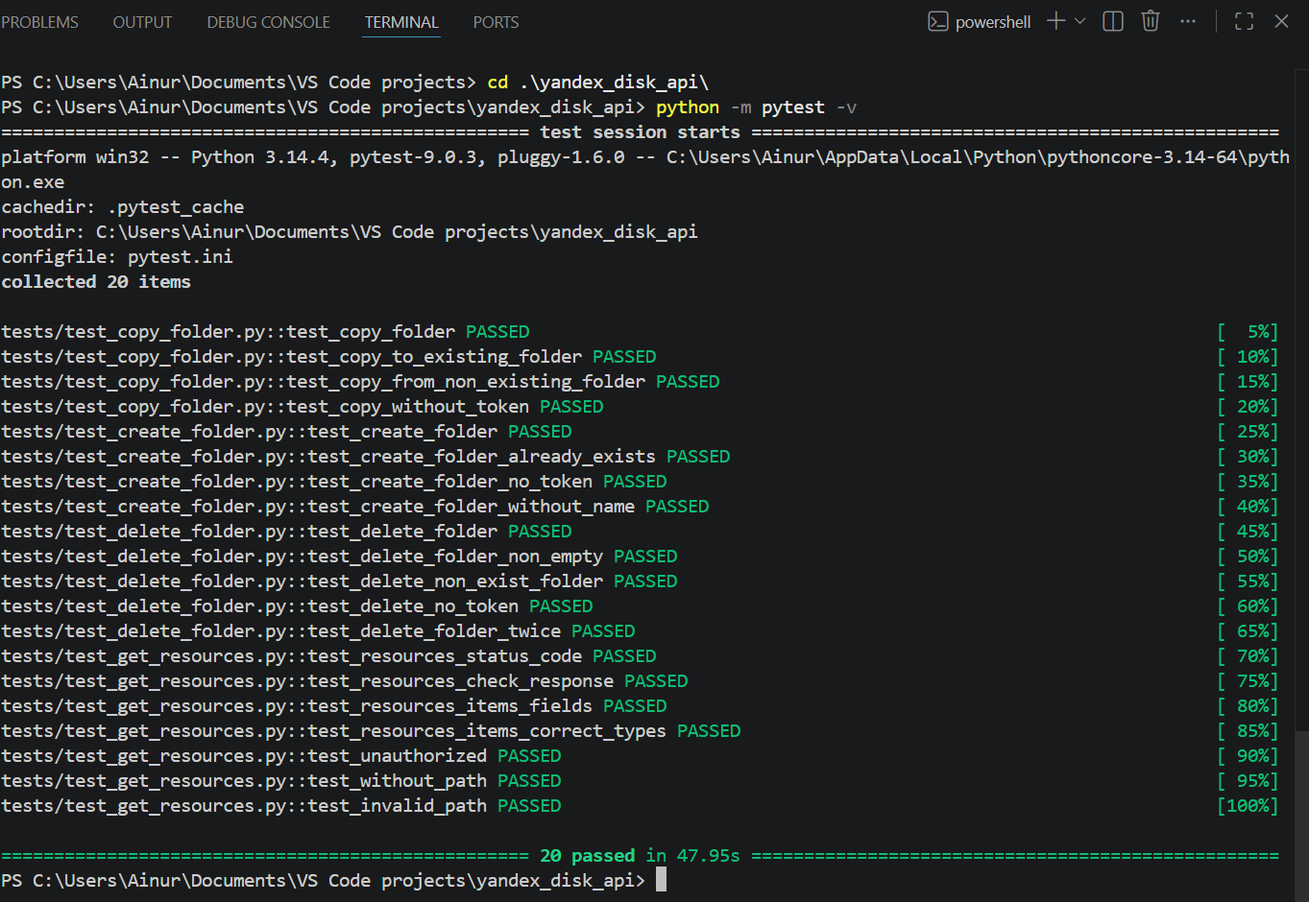
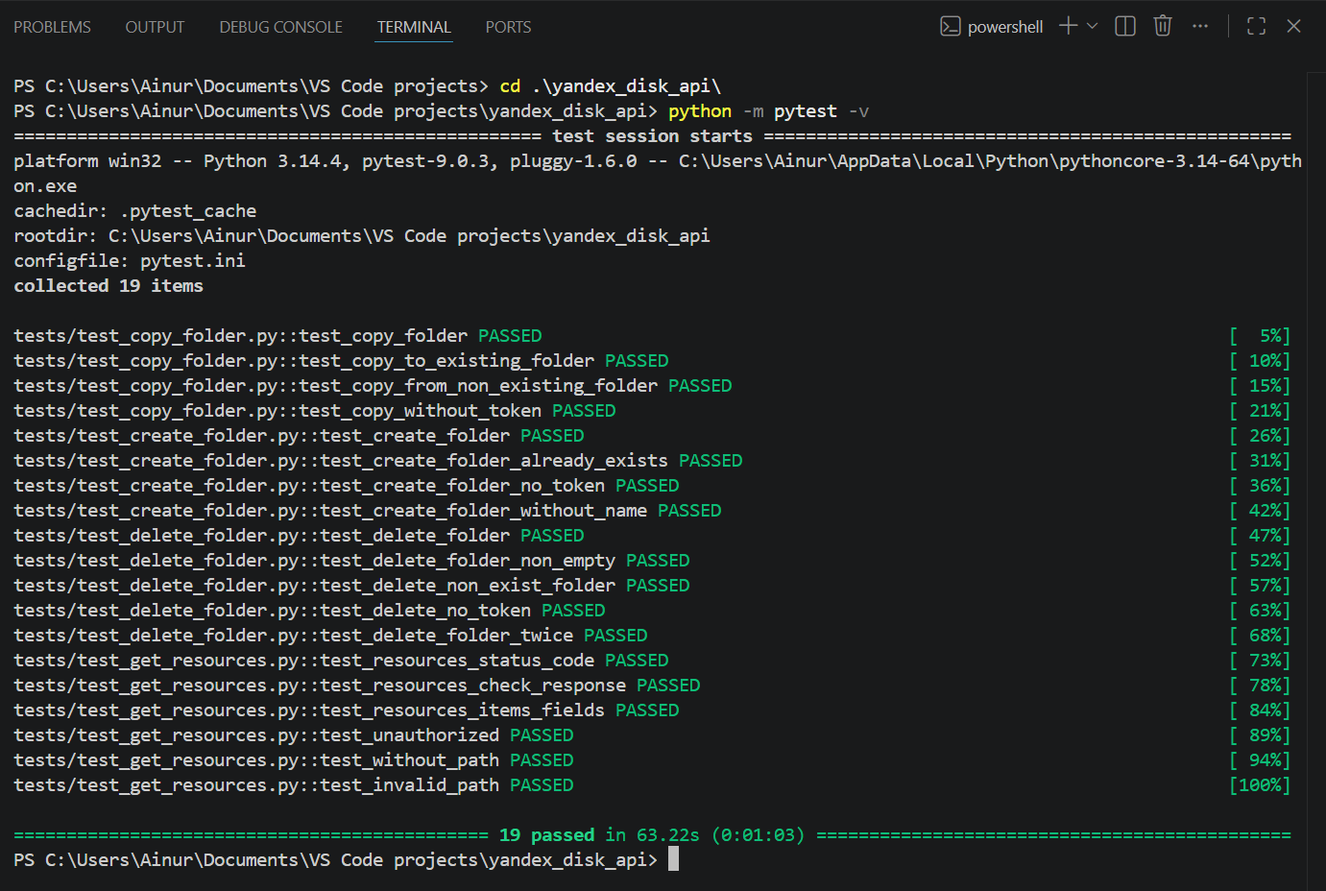
v3.2

diff --git a/tests/test_delete_folder.py b/tests/test_delete_folder.py
@@ -1,66 +1,39 @@
-from config.base import get_name
-from client.yandex_disk_api_client import create_folder, get_resources, delete
-from utils.assertions import assert_create_folder_response, assert_error_response
+from client.yandex_disk_api_client import get_resources, delete
+from utils.assertions import assert_error_response
+from utils.helpers import create_and_check_folder, delete_and_check, get_name
 
 def test_delete_folder(headers): #позитивный тест проверки удаление папки
-    folder_name = get_name("folder") 
-    response = create_folder(headers, folder_name) #создаем тестовую папку
-    assert response.status_code == 201
-    assert_create_folder_response(response.json()) #проверка JSON ответа 
-
-    get_response = get_resources(headers, f"/{folder_name}") #через get проверим что папка точно создалась
-    assert get_response.status_code == 200
-    
-    del_response = delete(headers, f"/{folder_name}") #удалим тестовую папку
-    assert del_response.status_code in [200, 202, 204]
-    
-    get_response = get_resources(headers, f"/{folder_name}") #через get проверим что папка точно удалилась
-    assert get_response.status_code == 404
-    assert_error_response(get_response.json()) #проверка ответа об ошибке    
+    folder_name = get_name("folder") #даем уникальное имя
+    create_and_check_folder(headers, folder_name) #создаем папку (с проверками)
+    delete_and_check(headers, folder_name) #удалим тестовую папку (с проверками)
 
 def test_delete_folder_non_empty(headers): #позитивный тест на удаление не пустой папки
-    folder_name = get_name("folder")
-    second_folder = get_name("second_folder")
-    first_response = create_folder(headers, folder_name) #создаем первую тестовую папку
-    assert first_response.status_code == 201
-    assert_create_folder_response(first_response.json()) #проверка JSON ответа 
-
-    second_response = create_folder(headers, f"{folder_name}/{second_folder}") #создаем вторую тестовую папку внутри первой
-    assert second_response.status_code == 201
-    assert_create_folder_response(second_response.json()) #проверка JSON ответа 
-
-    del_response = delete(headers, f"/{folder_name}") #удалим первую папку
-    assert del_response.status_code in [200, 202, 204]
-    import time
-    time.sleep(1) #иногда тест падает потому что не успевает удаляться папка поэтому поставил на повтор
-    get_response = get_resources(headers, f"/{folder_name}") #через get проверим что папка точно удалилась
-    assert get_response.status_code == 404
-    assert_error_response(get_response.json()) #проверка ответа об ошибке    
+    folder_name = get_name("folder") #даем уникальное имя
+    second_folder = get_name("second_folder") #даем уникальное имя
+    create_and_check_folder(headers, folder_name) #создаем папку (с проверками)
+    create_and_check_folder(headers, f"{folder_name}/{second_folder}") #создаем папку (с проверками)
+    delete_and_check(headers, folder_name) #удалим тестовую папку (с проверками)   
 
 def test_delete_non_exist_folder(headers): #негативный тест проверки удаления несуществ папки
-    folder_name = get_name()
-
-    del_response = delete(headers, f"/{folder_name}")
+    folder_name = get_name() #даем уникальное имя
+    check = get_resources(headers, folder_name) #проверим что нету такой папки
+    assert check.status_code == 404 
+    assert_error_response(check.json()) #проверка ответа об ошибке
+    del_response = delete(headers, folder_name) #удаляем несуществующую папку
     assert del_response.status_code == 404
     assert_error_response(del_response.json()) #проверка ответа об ошибке
 
 def test_delete_no_token(): #негативный тест на удаление папки без токена
-    folder_name = get_name()
-    del_response = delete(None, f"/{folder_name}") #удаляем папку без токена
+    folder_name = get_name() #даем уникальное имя
+    del_response = delete(None, folder_name) #удаляем папку без токена
     assert del_response.status_code == 401
     assert_error_response(del_response.json()) #проверка ответа об ошибке
 
 def test_delete_folder_twice(headers): #негативный тест на повторное удаление папки
-    folder_name = get_name("folder") 
-    response = create_folder(headers, folder_name) #создаем тестовую папку
-    assert response.status_code == 201
-    assert_create_folder_response(response.json()) #проверка JSON ответа 
-
-    get_response = get_resources(headers, f"/{folder_name}") #через get проверим что папка точно создалась
-    assert get_response.status_code == 200
-
-    first_del_response = delete(headers, f"/{folder_name}") #удалим тестовую папку
-    assert first_del_response.status_code in [200, 202, 204]
-
-    second_del_response = delete(headers, f"/{folder_name}") #повторно удалим тестовую папку
-    assert second_del_response.status_code == 404
+    folder_name = get_name("folder") #даем уникальное имя
+    create_and_check_folder(headers, folder_name) #создаем папку (с проверками)
+    delete_and_check(headers, folder_name) #удалим тестовую папку (с проверками)  
+    second_del_response = delete(headers, folder_name) #повторно удалим тестовую папку
+    assert second_del_response.status_code in [404, 202]
+    if second_del_response.status_code == 404:
+        assert_error_response(second_del_response.json()) #проверка ответа об ошибке

diff --git a/tests/test_copy_folder.py b/tests/test_copy_folder.py
@@ -1,62 +1,39 @@
-from config.base import get_name
-from client.yandex_disk_api_client import create_folder, get_resources, delete, copy
-from utils.assertions import assert_create_folder_response, assert_error_response
+from utils.helpers import get_name
+from client.yandex_disk_api_client import get_resources
+from utils.assertions import assert_error_response
+from utils.helpers import create_and_check_folder, delete_and_check, copy_and_check_folder, copy_expect_error
 
 def test_copy_folder(headers): #позитивный тест на создание копии папки
-    folder_name = get_name("folder") 
-    response = create_folder(headers, folder_name)
-    assert response.status_code == 201
-    assert_create_folder_response(response.json())
-    response = get_resources(headers, f"/{folder_name}") #через get проверим что папка точно создалась
-    assert response.status_code == 200
-
-    copy_folder_name = f"copy_{folder_name}" #создадим копию
-    copy_response = copy(headers, folder_name, copy_folder_name)
-    assert copy_response.status_code in [201, 202] 
-    assert_create_folder_response(copy_response.json())
-    response = get_resources(headers, f"/{copy_folder_name}") #через get проверим что папка точно создалась
-    assert response.status_code == 200
-
-    del_response = delete(headers, f"/{folder_name}") #удалим тестовую папку1
-    assert del_response.status_code in [200, 202, 204]
-    del_response = delete(headers, f"/{copy_folder_name}") #удалим тестовую папку2
-    assert del_response.status_code in [200, 202, 204]
+    folder_name = get_name("folder") #даем уникальное имя
+    create_and_check_folder(headers, folder_name) #создаем папку (с проверками)
+    copy_folder_name = f"copy_{folder_name}" #даем уникальное имя
+    copy_and_check_folder(headers, folder_name, copy_folder_name) #создадим копию (с проверкой)
+    delete_and_check(headers, folder_name) #удалим тестовую папку (с проверками)
+    delete_and_check(headers, copy_folder_name) #удалим тестовую папку (с проверками)
 
 def test_copy_to_existing_folder(headers): #негативный тест на копирование папки уже существующую
-    folder_name = get_name()
-    copy_folder_name = f"copy_{folder_name}"
-
-    create_folder(headers, folder_name)
-    create_folder(headers, copy_folder_name)
-
-    response = copy(headers, folder_name, copy_folder_name)
-    assert response.status_code == 409
-    assert_error_response(response.json())
-
-    check = get_resources(headers, f"/{copy_folder_name}")
-    assert check.status_code == 200
-
-    delete(headers, f"/{folder_name}")
-    delete(headers, f"/{copy_folder_name}")
+    folder_name = get_name() #даем уникальное имя
+    copy_folder_name = f"copy_{folder_name}" #даем уникальное имя
+    create_and_check_folder(headers, folder_name) #создаем папку (с проверками)
+    create_and_check_folder(headers, copy_folder_name) #создаем папку (с проверками)
+    before = get_resources(headers, copy_folder_name).json()
+    copy_expect_error(headers, folder_name, copy_folder_name, 409)
+    after = get_resources(headers, copy_folder_name).json()
+    assert before["_embedded"]["items"] == after["_embedded"]["items"] #сравниваем JSON существующей папки до и после копирования (на случай если копирование перезаписало его)
+    delete_and_check(headers, folder_name) #удалим тестовую папку (с проверками)
+    delete_and_check(headers, copy_folder_name) #удалим тестовую папку (с проверками)
 
 def test_copy_from_non_existing_folder(headers): #негативный тест на копирование не существующий папки
-    folder_name = get_name()
-    copy_folder_name = f"copy_{folder_name}"
-
-    response = copy(headers, folder_name, copy_folder_name)
-    assert response.status_code == 404
-    assert_error_response(response.json())
-    check_copy = get_resources(headers, f"/{copy_folder_name}")
+    folder_name = get_name() #даем уникальное имя
+    copy_folder_name = f"copy_{folder_name}" #даем уникальное имя
+    copy_expect_error(headers, folder_name, copy_folder_name, 404)
+    check_copy = get_resources(headers, copy_folder_name)
     assert check_copy.status_code == 404
+    assert_error_response(check_copy.json())
     
 def test_copy_without_token(headers): #негативный тест на копирование без токена
-    folder_name = get_name()
-    copy_folder_name = f"copy_{folder_name}"
-
-    create_folder(headers, folder_name)
-    
-    response = copy(None, folder_name, copy_folder_name)
-    assert response.status_code == 401
-    assert_error_response(response.json())
-
-    delete(headers, f"/{folder_name}")
+    folder_name = get_name() #даем уникальное имя
+    copy_folder_name = f"copy_{folder_name}" #даем уникальное имя
+    create_and_check_folder(headers, folder_name)
+    copy_expect_error(None, folder_name, copy_folder_name, 401)
+    delete_and_check(headers, folder_name) #удалим тестовую папку (с проверками)

diff --git a/utils/helpers.py b/utils/helpers.py
@@ -1,0 +1,43 @@
+import time
+import uuid
+from client.yandex_disk_api_client import create_folder, get_resources, delete, copy
+from utils.assertions import assert_operation_response, assert_resources_structure, assert_resources_items, assert_error_response
+
+def get_name(prefix="folder"):
+    return f"{prefix}_{uuid.uuid4().hex[:8]}"
+
+def create_and_check_folder(headers, path): #фунция создания и проверки папки
+    create_response = create_folder(headers, path) #создадим тестовую папку
+    assert create_response.status_code == 201 #проверка статус кода ответа на создание папки
+    assert_operation_response(create_response.json()) #проверка успешного (201) ответа сервера JSON
+    get_response = get_resources(headers, path) #через get перепроверим что папка точно создалась
+    assert get_response.status_code == 200 #проверка статус кода ответа на get
+    assert_resources_structure(get_response.json()) #проверка успешного ответа (200) сервера
+    assert_resources_items(get_response.json()) #проверка успешного ответа (200) сервера
+
+def delete_and_check(headers, path): #функция для удаления
+    del_response = delete(headers, path) #удаляем
+    assert del_response.status_code in [200, 202, 204] #проверка статус кода ответа
+    for _ in range(5): #иногда тест падает из за асинхронности (не мгновенное удаление), поэтому добавил повтор
+        check = get_resources(headers, path) #через get проверим что папка точно удалилась
+        if check.status_code == 404:
+            return
+        else:
+            time.sleep(1) #усыпляем на 1 сек
+    assert check.status_code == 404
+    assert_error_response(check.json()) #проверка ответа сервера об ошибке
+
+def copy_and_check_folder(headers, source_path, target_path): #функция копирования
+    copy_response = copy(headers, source_path, target_path) #создадим копию
+    assert copy_response.status_code in [201, 202] #проверка статус кода ответа
+    assert_operation_response(copy_response.json()) #проверка успешного (201) ответа сервера JSON
+    get_response = get_resources(headers, target_path) #через get перепроверим что папка точно создалась
+    assert get_response.status_code == 200 #проверка статус кода ответа на get
+    data = get_response.json()
+    assert_resources_structure(data) #проверка успешного ответа (200) сервера
+    assert_resources_items(data) #проверка успешного ответа (200) сервера
+
+def copy_expect_error(headers, source_path, target_path, status_code): #функция копирования для негативных тестов
+    response = copy(headers, source_path, target_path)
+    assert response.status_code == status_code
+    assert_error_response(response.json()) #проверка ответа сервера об ошибке

diff --git a/utils/assertions.py b/utils/assertions.py
@@ -8,16 +8,33 @@ def assert_error_response(data): #функция для теста ответа 
     assert isinstance(data["description"], str) #проверка что корректный тип значения
     assert isinstance(data["message"], str) #проверка что корректный тип значения
 
-def assert_create_folder_response(data): 
+def assert_operation_response(data): 
     assert isinstance(data, dict)
     assert "method" in data
     assert "href" in data
     assert isinstance(data["method"], str)
     assert isinstance(data["href"], str)
 
-def assert_copy_folder_response(data): 
-    assert isinstance(data, dict)
-    assert "method" in data
-    assert "href" in data
-    assert isinstance(data["method"], str)
-    assert isinstance(data["href"], str)
+def assert_resources_structure(data):
+    assert isinstance(data, dict) #проверяем что ответ соответствует структуре ключ-значение (JSON)
+    assert "_embedded" in data #проверка что в ответе есть embedded
+    assert "items" in data["_embedded"] #проверка что есть итемс в ответе в поле embedded
+    items = data["_embedded"]["items"] #присваиваем переменной items список items с ответа
+    assert isinstance(items, list) #проверка что итемс это список
+    assert "error" not in data #проверяем что в JSON ответе нет ключа "error"
+        
+def assert_resources_items(data):
+    items = data["_embedded"]["items"] #присваиваем переменной items список items с ответа
+    for item in items: #проходимся по элементам списка
+        assert "name" in item #проверка обязательных полей в ответе
+        assert "type" in item #проверка обязательных полей в ответе
+        assert "path" in item #проверка обязательных полей в ответе
+        assert "created" in item #проверка обязательных полей в ответе
+        assert "modified" in item #проверка обязательных полей в ответе
+        assert "resource_id" in item #проверка обязательных полей в ответе
+        assert "revision" in item #проверка обязательных полей в ответе
+        assert "comment_ids" in item #проверка обязательных полей в ответе
+        assert item["type"] in ["file", "dir"] #проверка что корректный тип значения 
+        assert isinstance(item["name"], str) #проверка что корректный тип значения
+        assert isinstance(item["type"], str) #проверка что корректный тип значения
+        assert isinstance(item["path"], str) #проверка что корректный тип значения

diff --git a/tests/test_create_folder.py b/tests/test_create_folder.py
@@ -1,38 +1,24 @@
-from config.base import get_name
-import time
 import requests
 from config.base import RESOURCES_URL
-from client.yandex_disk_api_client import create_folder, get_resources, delete
-from utils.assertions import assert_create_folder_response, assert_error_response
-
-def delete_and_check(headers, path): #функция для удаления
-    del_response = delete(headers, path)
-    assert del_response.status_code in [200, 202, 204]
-    time.sleep(1)
-    check = get_resources(headers, path) #через get проверим что папка точно удалилась
-    assert check.status_code == 404
-    assert_error_response(check.json()) #проверка ответа об ошибке
+from client.yandex_disk_api_client import create_folder
+from utils.assertions import assert_error_response
+from utils.helpers import get_name, create_and_check_folder, delete_and_check
 
 def test_create_folder(headers): #позитивный тест на создание папки
-    folder_name = get_name("folder") 
-    response = create_folder(headers, folder_name)
-    assert response.status_code == 201
-    assert_create_folder_response(response.json())
-    response = get_resources(headers, f"/{folder_name}") #через get проверим что папка точно создалась
-    assert response.status_code == 200
+    folder_name = get_name("folder") #даем уникальное имя
+    create_and_check_folder(headers, folder_name)
     delete_and_check(headers, f"/{folder_name}") #удалим тестовую папку
    
 def test_create_folder_already_exists(headers): #негативный тест на создание уже существующей папки
-    folder_name = get_name("folder")
-    first = create_folder(headers, folder_name) #создадим папку
-    assert first.status_code == 201
+    folder_name = get_name("folder") #даем уникальное имя
+    create_and_check_folder(headers, folder_name)
     response = create_folder(headers, folder_name) #повторно создадим папку с таким именем
     assert response.status_code == 409
     assert_error_response(response.json()) #проверка ответа об ошибке
     delete_and_check(headers, f"/{folder_name}") #удалим тестовую папку
 
 def test_create_folder_no_token(): #негативный тест на создание папки без токена
-    folder_name = get_name("folder")
+    folder_name = get_name("folder") #даем уникальное имя
     response = create_folder(None, folder_name)
     assert response.status_code == 401
     assert_error_response(response.json()) #проверка ответа об ошибке

diff --git a/client/yandex_disk_api_client.py b/client/yandex_disk_api_client.py
@@ -1,19 +1,26 @@
 import requests
 from config.base import RESOURCES_URL, COPY_URL
 
-def get_resources(headers, path="/"):
-    return requests.get(RESOURCES_URL, headers=headers, params={"path":path})
+def normalize_path(path):
+    if not path:
+        return "/"
+    if path.startswith("/"):
+        return path
+    else:
+        return f"/{path}"
 
-def create_folder(headers, folder_name):
-    return requests.put(RESOURCES_URL, headers=headers, params={"path": f"/{folder_name}"})
+def get_resources(headers, path="/"):
+    return requests.get(RESOURCES_URL, headers=headers, params={"path": normalize_path(path)})
+
+def create_folder(headers, path):
+    return requests.put(RESOURCES_URL, headers=headers, params={"path": normalize_path(path)})
 
 def delete(headers, path="/"):
-    return requests.delete(RESOURCES_URL, headers=headers, params={"path": path})
+    return requests.delete(RESOURCES_URL, headers=headers, params={"path": normalize_path(path)})
 
-def copy(headers, from_path, to_path):
+def copy(headers, source_path, target_path):
     params = {
-        "from": f"/{from_path}",
-        "path": f"/{to_path}"
+        "from": normalize_path(source_path),
+        "path": normalize_path(target_path)
     }
-
     return requests.post(url=COPY_URL, headers=headers, params=params)

diff --git a/config/base.py b/config/base.py
@@ -1,7 +1,3 @@
-import uuid
 DISK_URL = "https://cloud-api.yandex.net/v1/disk"
 RESOURCES_URL = f"{DISK_URL}/resources"
 COPY_URL = f"{DISK_URL}/resources/copy"
-
-def get_name(prefix="folder"):
-    return f"{prefix}_{uuid.uuid4().hex[:8]}"

diff --git a/conftest.py b/conftest.py
@@ -1,0 +1,13 @@
+import pytest
+import os
+from dotenv import load_dotenv
+
+load_dotenv()
+
+token = os.getenv("TOKEN")
+
+@pytest.fixture
+def headers():
+    return {
+        "Authorization": "OAuth " + token
+    }
